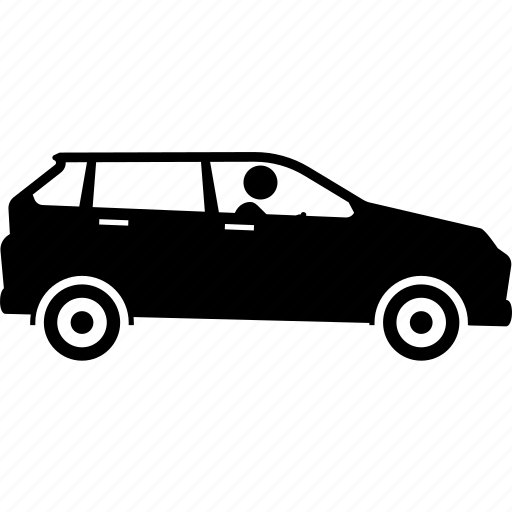
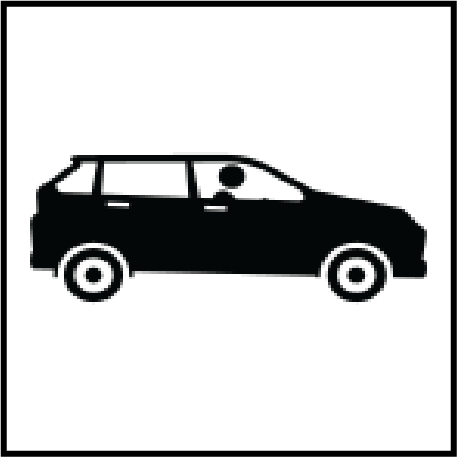
Fixed driver image

Changed region(s): [[0.0, 0.0, 1.0, 1.0]]

diff --git a/screens.js b/screens.js
@@ -53,9 +53,8 @@ export function ChooseUserTypeScreen ({navigation}) {//displays screen for signi
                 <View style={{flex: 5, alignItems: "center"}}>
                     <Text style={{fontFamily: "Avenir", color: "gray", fontSize: 30, fontWeight: "bold"}}>Driver?</Text>
                     {/*replace onPress function with proper back-end ones when ready*/}
-                    {/*replace this image with the proper driver image later*/}
-                    <TouchableOpacity onPress={() => navigation.navigate("Homepage")} style={{flex: 1}}>
-                        <Image source={require("./assets/rider.png")} resizeMode = "contain" style={{flex: 1}}/>
+                    <TouchableOpacity onPress={() => navigation.navigate("Homepage")} style={{flex: 1,maxWidth: "25%", backgroundColor: "#F1F1F1"}}>
+                        <Image source={require("./assets/driver.png")} resizeMode = "contain" style={{flex: 1, alignSelf: "center"}}/>
                     </TouchableOpacity>
                 </View>
             </View>
